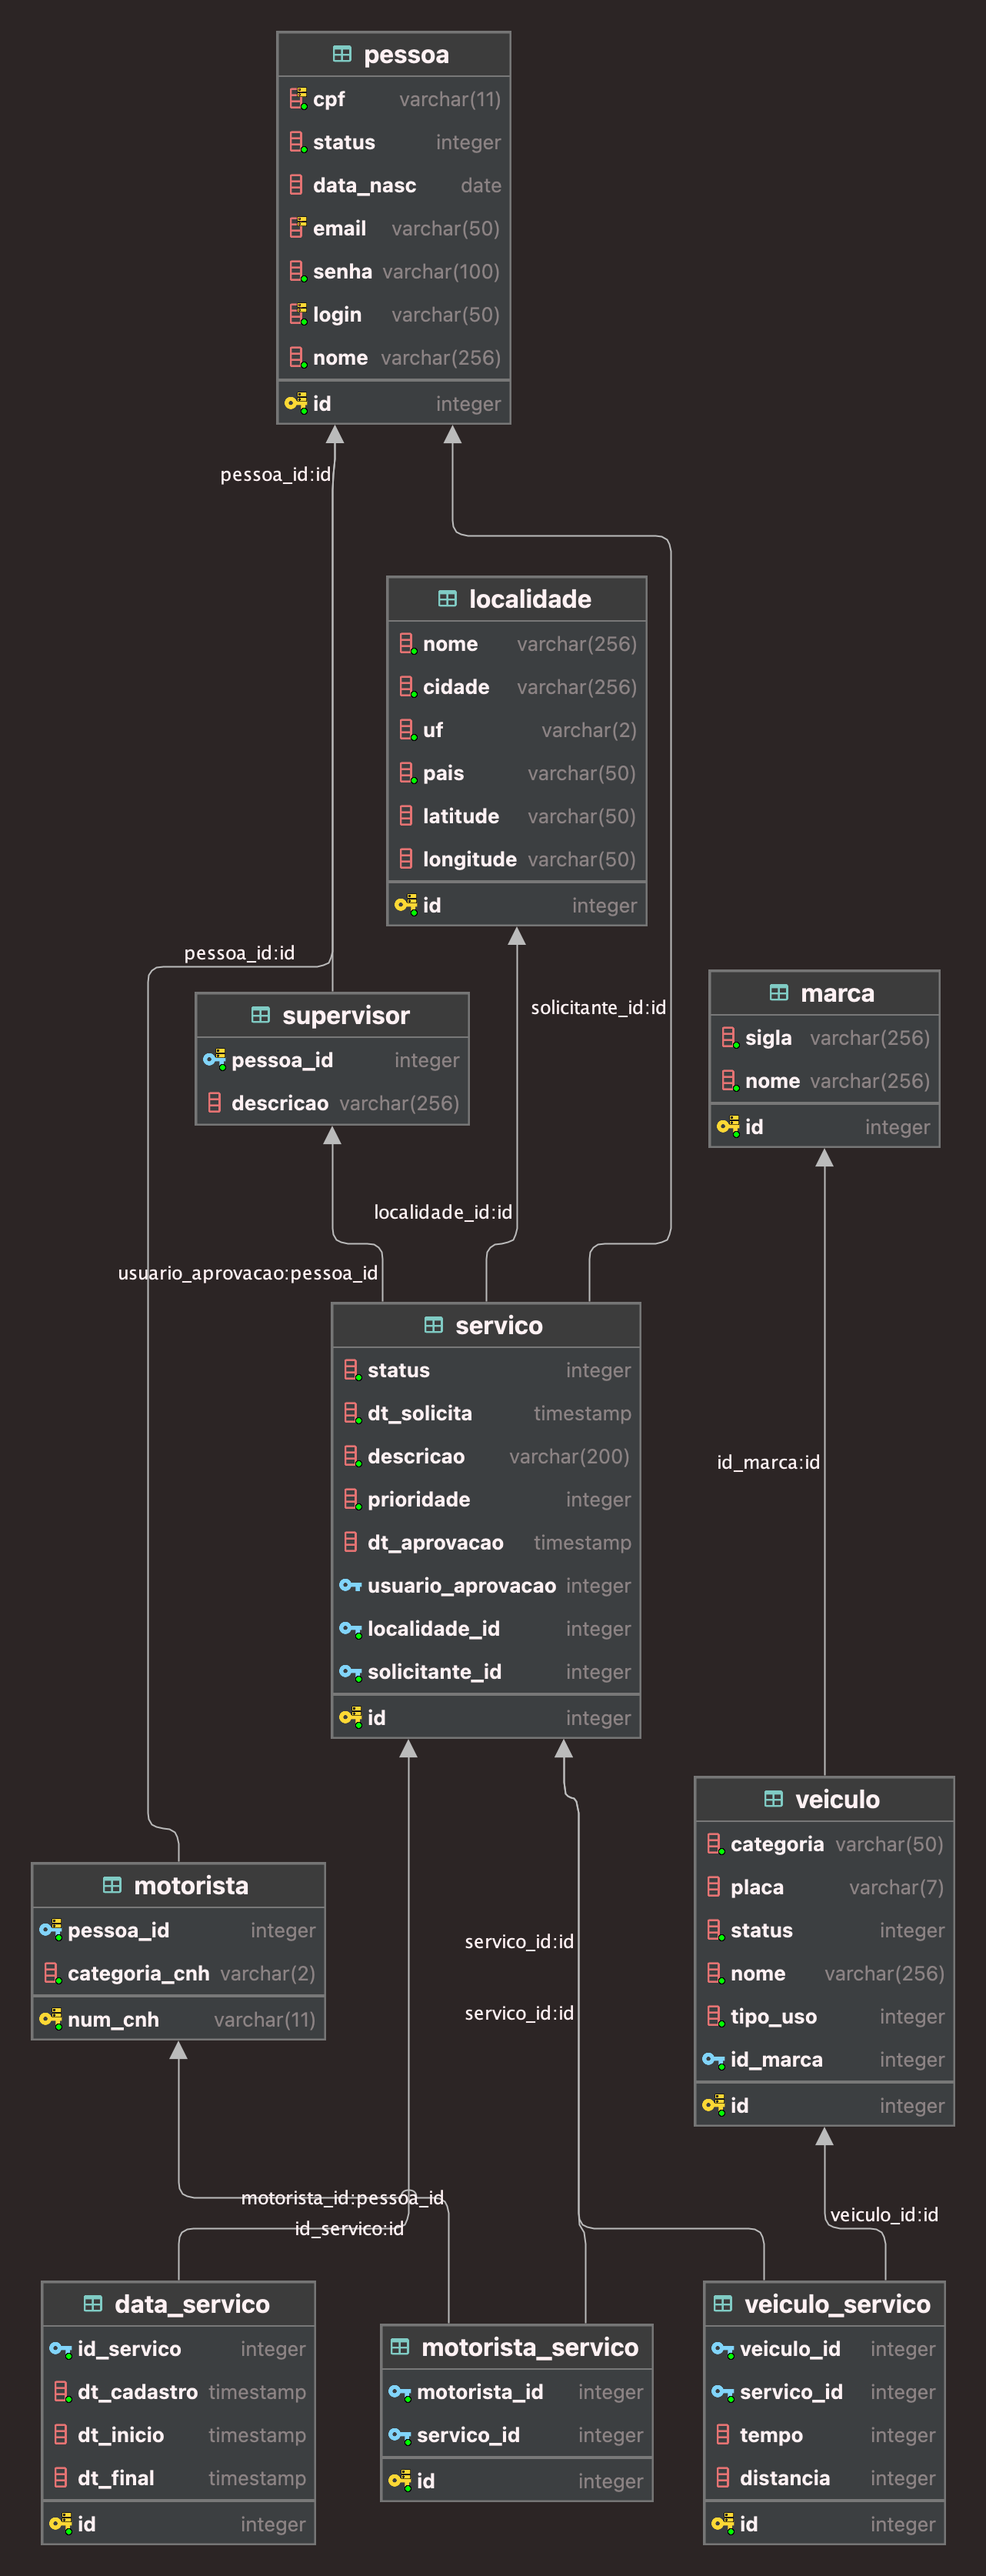
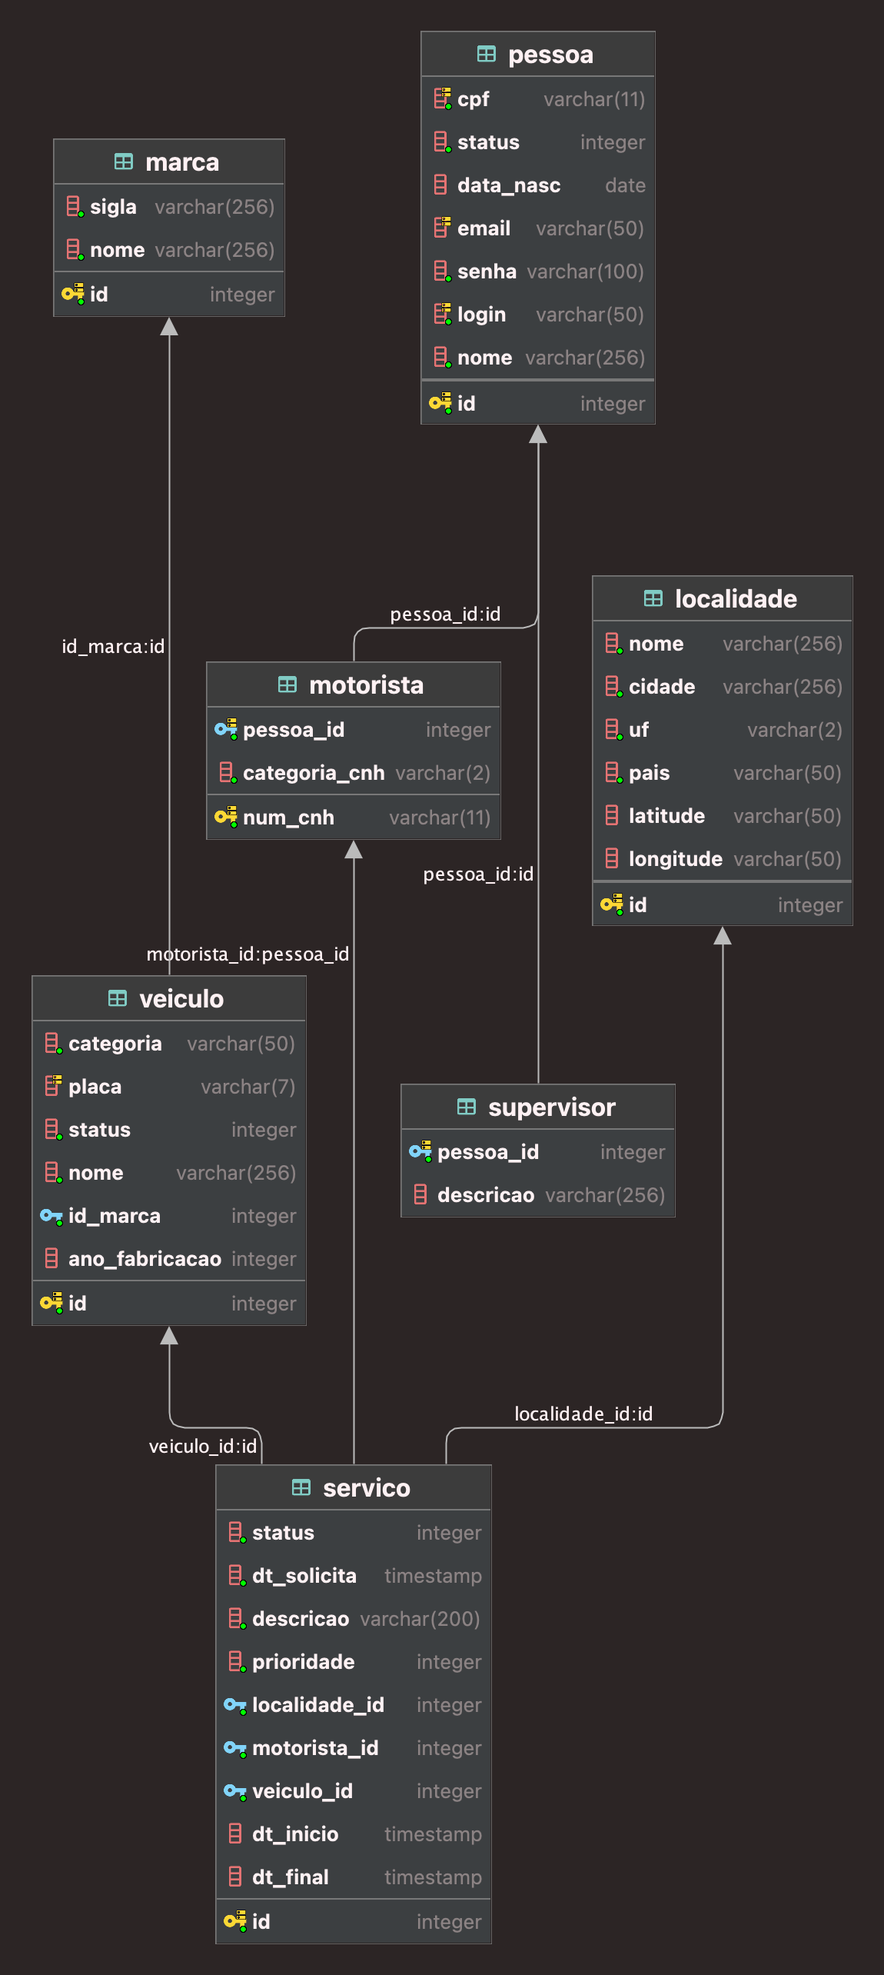
fix: :hammer: Ajustes nos scripts e validacoes nos veiculos

diff --git a/server/src/models/veiculo.js b/server/src/models/veiculo.js
@@ -6,20 +6,16 @@ class Veiculo {
     static EM_SERVICO = 2;
     static EM_MANUTENCAO = 3;
 
-    // tipo_uso
-    static VEICULO = 1;
-    static MAQUINA = 2;
-
     static tableName = 'veiculo';
 
-    constructor(id, categoria, placa, status, nome, tipo_uso, id_marca) {
+    constructor(id, categoria, placa, status, nome, id_marca, ano_fabricacao) {
         this.id = id;
         this.categoria = categoria;
         this.placa = placa;
         this.status = status;
         this.nome = nome;
-        this.tipo_uso = tipo_uso;
         this.id_marca = id_marca;
+        this.ano_fabricacao = ano_fabricacao;
     }
 
     static validate(veiculo) {
@@ -27,8 +23,8 @@ class Veiculo {
             categoria: v.string().max(50).required(),
             placa: v.string().length(7).allow(null).optional(),
             nome: v.string().max(256).required(),
-            tipo_uso: v.number().integer().required(),
             id_marca: v.number().integer().required(),
+            ano_fabricacao: v.number().integer().optional()
         });
 
         const validation = schema.validate(veiculo,{ abortEarly: false });
@@ -42,8 +38,8 @@ class Veiculo {
             categoria: v.string().max(50).optional(),
             placa: v.string().length(7).allow(null).optional(),
             nome: v.string().max(256).optional(),
-            tipo_uso: v.number().integer().optional(),
             id_marca: v.number().integer().optional(),
+            ano_fabricacao: v.number().integer().optional()
         });
 
         const validation = schema.validate(veiculo,{ abortEarly: false });

diff --git a/server/src/services/veiculoService.js b/server/src/services/veiculoService.js
@@ -1,11 +1,22 @@
 const BaseService = require('./baseService');
 const veiculoModel = require('../models/veiculo');
 const {db} = require("../config/connection");
+const marcaService = require("./marcaService");
 
 class VeiculoService extends BaseService{
     // cria os métodos de CRUD
     constructor() {
         super(veiculoModel);
+    }
+
+    async createVeiculo(veiculo) {
+        const validacao = await marcaService.getByPrimaryKey(veiculo.id_marca);
+        if (validacao.length === 0) {
+            return {status: 404, json: {error: 'A marca não está cadastrada no sistema'}};
+        }
+
+        await this.create(veiculo);
+        return {status: 201, json: {message: 'Veiculo criado com sucesso'}};
     }
 
     async getVeiculo(id = null) {
@@ -38,14 +49,18 @@ class VeiculoService extends BaseService{
                 v.placa, 
                 v.status, 
                 v.nome, 
-                v_ano_fabricacao,
+                v.ano_fabricacao,
                 m.nome as marca
             FROM veiculo v
             LEFT JOIN marca m ON v.id_marca = m.id
-            WHERE v.id = $1 AND v.status = ${veiculoModel.DISPONIVEL}
+            WHERE v.status = $1
         `;
 
-        return await db.query(sql, [id]);
+        if (id) {
+            return await db.query(sql + ' AND v.id = $2', [veiculoModel.DISPONIVEL, id]);
+        }
+
+        return await db.query(sql, [veiculoModel.DISPONIVEL]);
     }
 }
 

diff --git a/server/src/controllers/veiculoController.js b/server/src/controllers/veiculoController.js
@@ -1,5 +1,4 @@
 const veiculoService = require('../services/veiculoService');
-const marcaService = require('../services/marcaService');
 
 const index =  async (req, res) => {
 
@@ -27,8 +26,8 @@ const show =  async (req, res) => {
 const create = async (req,res) => {
   try {
     const veic = req.body;
-    const newVeiculo = await veiculoService.create(veic);
-    return res.status(201).json({message: 'Veiculo criado com sucesso'});
+    const response = await veiculoService.createVeiculo(veic);
+    res.status(response.status).json(response.json);
 
   } catch (err) {
     console.log(err)
@@ -39,7 +38,7 @@ const create = async (req,res) => {
 const update = async (req,res) => {
   try {
     const veic = req.body;
-    const updatedVeiculo = await veiculoService.update(req.params.id, veic);
+    await veiculoService.update(req.params.id, veic);
     return res.status(201).json({message: 'Veiculo alterado com sucesso'});
   } catch (err) {
     res.status(500).json({ error: err.message });
